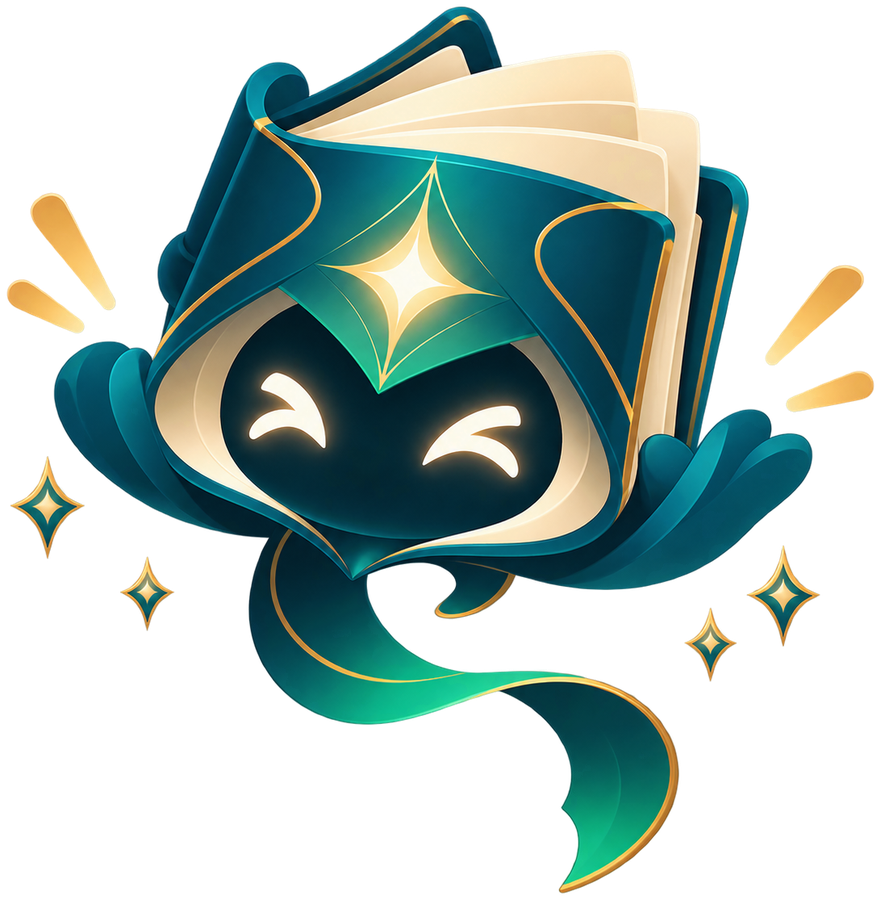
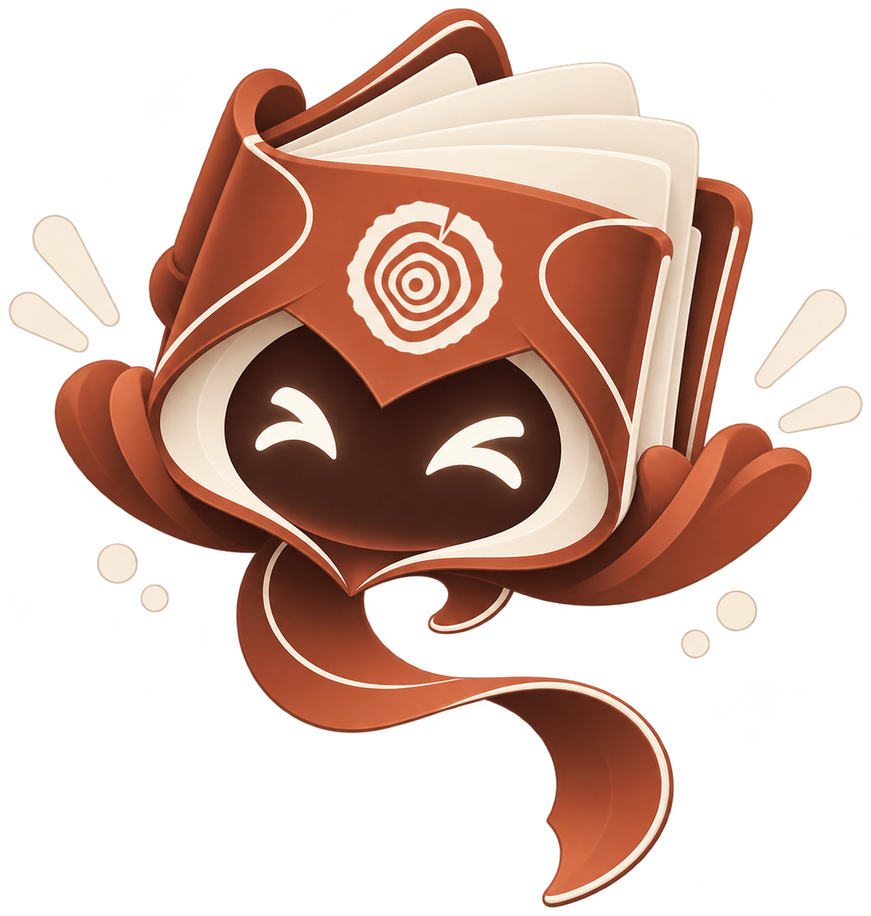
Brand: refresh all six mascot poses in terracotta and cream

diff --git a/apps/web/src/components/brand/GnosiaMascot.tsx b/apps/web/src/components/brand/GnosiaMascot.tsx
@@ -11,10 +11,10 @@ import sleepy from "../../../public/brand/mascot/sleepy.png";
 
 /**
  * The mascot: the hooded tome with the glowing crescent eyes. Each pose is
- * one of the owner's renders, drawn on a transparent ground, trimmed to the
+ * a terracotta refresh of the owner's renders, on a transparent ground, trimmed to the
  * art and scaled to 900px on its longest side under `public/brand/mascot/`.
- * The full 1254px renders are in docs/design/brand/mascot/, and the mascot
- * sheet (docs/design/brand/mascot-sheet.png) stays as the reference.
+ * The full renders are in docs/design/brand/mascot/, and the refreshed pose
+ * sheet is docs/design/brand/mascot-terracotta-sheet.png.
  *
  * Always decorative (`alt=""`). Size it by height with a class
  * (`h-[200px] lg:h-[400px]`); the width follows the pose's own proportions.

diff --git a/docs/design/BRAND.md b/docs/design/BRAND.md
@@ -114,7 +114,7 @@ reduction of it, and where the two disagree the art wins.
 | [docs/design/brand/logo-sheet.png](brand/logo-sheet.png) | The primary lockup, the symbol alone, the wordmark alone, both on light and dark, and the app icon | The original lockup reference; superseded for the interface by the logo files below. Historical reference only; `GnosiaMark.ts` and the preview kit now reproduce the supplied 8-5 rings |
 | [docs/design/brand/app-icon.png](brand/app-icon.png) | The first app icon: the old mark on a navy-to-teal rounded square, 1254px | Reference only. Every shipped icon is now cut from `logo/mark.png` |
 | [docs/design/brand/mascot-sheet.png](brand/mascot-sheet.png) | The mascot in six poses: neutral, happy, reading, curious, excited, sleepy | Reference only; the shipped poses come from the renders below |
-| [docs/design/brand/mascot/](brand/mascot/) `{neutral,happy,reading,curious,excited,sleepy}.png` | The six poses as separate renders, one file per pose, 1254px square on a transparent ground | Source of the shipped poses below |
+| [docs/design/brand/mascot/](brand/mascot/) `{neutral,happy,reading,curious,excited,sleepy}.png` | The six refreshed poses as separate renders, one file per pose, refreshed in terracotta and cream on a transparent ground | Source of the shipped poses below |
 | [docs/design/brand/hero-lockup.png](brand/hero-lockup.png) | The mark, the wordmark, the tagline and the mascot together on cream | Source of the social card |
 | [docs/design/brand/composite.png](brand/composite.png) | The lockup, the mascot and the icons on one board | Reference only |
 | [docs/design/brand/world-staircase.png](brand/world-staircase.png) | The world: a staircase of books into a sky city, the mascot beside it | Source of `public/banner.png` |
@@ -124,7 +124,7 @@ reduction of it, and where the two disagree the art wins.
 | [apps/web/src/app/icon.png](../../apps/web/src/app/icon.png) (512), `icon.svg`, `favicon.ico` | The new mark, supplied as final art: PNG, a hand-pixelled SVG and a multi-size ICO | Favicon and PWA icon |
 | [apps/web/src/app/apple-icon.png](../../apps/web/src/app/apple-icon.png) (180) | The new mark on an opaque square, supplied as final art; opaque, because iOS fills a transparent home-screen icon with black, and square, because iOS rounds the corners itself | Home-screen icon |
 | [apps/desktop/Resources/AppIcon.png](../../apps/desktop/Resources/AppIcon.png) (1024) | The new mark, supplied as final art; `scripts/bundle-app.sh` renders the `.icns` from it | macOS app icon |
-| [apps/web/public/brand/mascot/](../../apps/web/public/brand/mascot/) `{neutral,happy,reading,curious,excited,sleepy}.png` | Cut from the renders in `docs/design/brand/mascot/`: trimmed to the art plus 8px and scaled to 900px on the longest side (620 to 880px wide) | `GnosiaMascot` |
+| [apps/web/public/brand/mascot/](../../apps/web/public/brand/mascot/) `{neutral,happy,reading,curious,excited,sleepy}.png` | Cut from the refreshed renders in `docs/design/brand/mascot/`: alpha-trimmed, padded by 8px and scaled to 900px on the longest side | `GnosiaMascot` |
 | [apps/web/public/opengraph-image.png](../../apps/web/public/opengraph-image.png) (1200 by 630) | Interim 8-5 mark and terracotta wordmark on cream, from `kit/social-card.svg` | The social card; the owner's hand-cut art replaces it later |
 | [apps/web/public/banner.png](../../apps/web/public/banner.png) | Made from `world-staircase.png` | A wide banner, for the repository and campaign use |
 
@@ -168,27 +168,21 @@ them for sign-in. The mark stays at 1.9em and the lettering at 0.8em in bars.
 
 ## The mascot
 
-A small living tome: teal covers folded into a **dark hood**, cream pages
-fanned behind it, gold line accents along the cover, the **star sigil**
-glowing on the brow, **two glowing crescent eyes** in the hood's shadow, two
-small cloth hands, and a **ribbon tail** in teal and green trailing below.
-Its expression lives in the eyes: closed smiles for neutral and happy,
-round for reading and curious, squeezed shut for excited, downturned
-crescents for sleepy. Happy and excited raise both hands with gold strokes
-either side, and excited adds four-point sparkles; reading holds an open
-book up, sleepy holds one low.
+A small living tome: terracotta covers folded into a hood, warm earth in
+its shadow, cream pages, cream edge trim and glowing cream eyes. A cream
+tree-ring emblem replaces the old star sigil. Hands and the long ribbon
+tail keep their original shapes; the six expressions still carry the pose.
 
-Each pose is its own render from the owner, 1254px square on a transparent
-ground, kept in [docs/design/brand/mascot/](brand/mascot/). The renders have
-no background, no fringe and no baked shadow, so the same file works on
-cream and on navy. The copies the app ships are trimmed to the art plus 8px
-and scaled to 900px on the longest side, which covers the 400px hero at 2x.
-[GnosiaMascot](../../apps/web/src/components/brand/GnosiaMascot.tsx) renders
-a pose from `public/brand/mascot/` with `next/image`, `alt=""`, sized by
-height with a class. The poses are static imports, so each ships under a
-content-hashed URL and `next/image` reads its pixel size from the file: a
-replaced file needs no size edited anywhere and never leaves a browser on
-the old picture.
+The 2026-11-09 refresh was generated from the owner's individual pose
+renders and the supplied 8-5 logo, keeping the character, gestures and
+composition. Sources remain in `docs/design/brand/mascot/` and the reviewed
+six-pose sheet is `brand/mascot-terracotta-sheet.png`. The original teal
+sheet is a historical reference, preserved alongside the new one.
+
+The shipped copies are alpha-trimmed, padded by 8px and sized to 900px on
+the longest side. `GnosiaMascot` uses static imports, so a replacement gets
+a fresh content-hashed URL and its dimensions follow the file. Every pose
+is decorative, with an empty alternative description.
 
 | Pose | Where it goes |
 | --- | --- |
